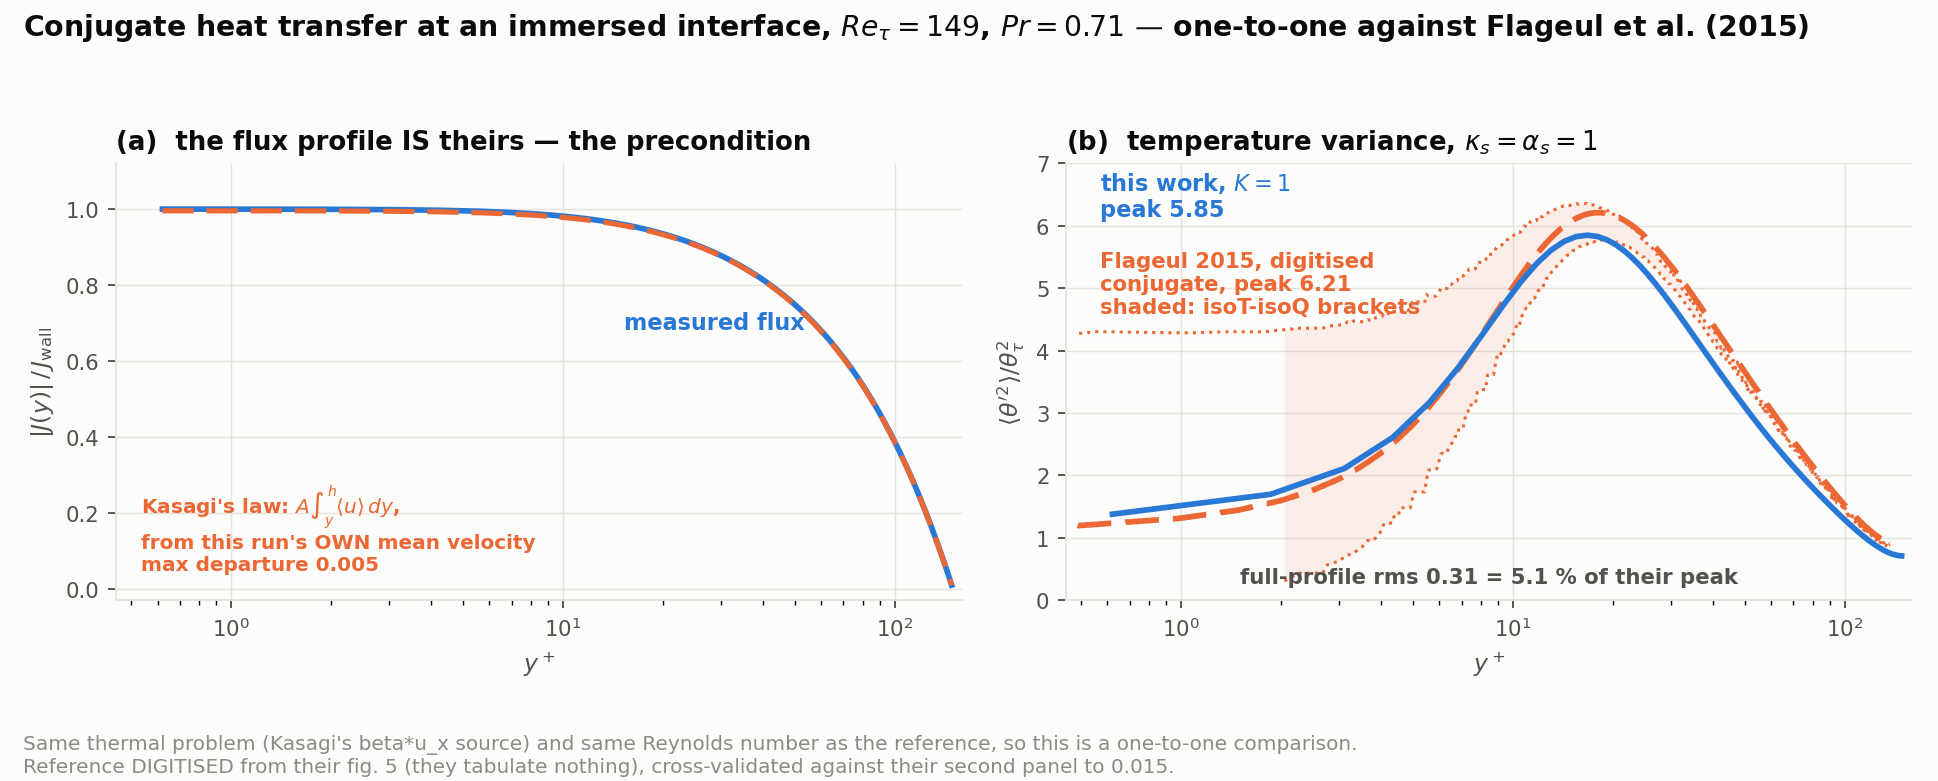
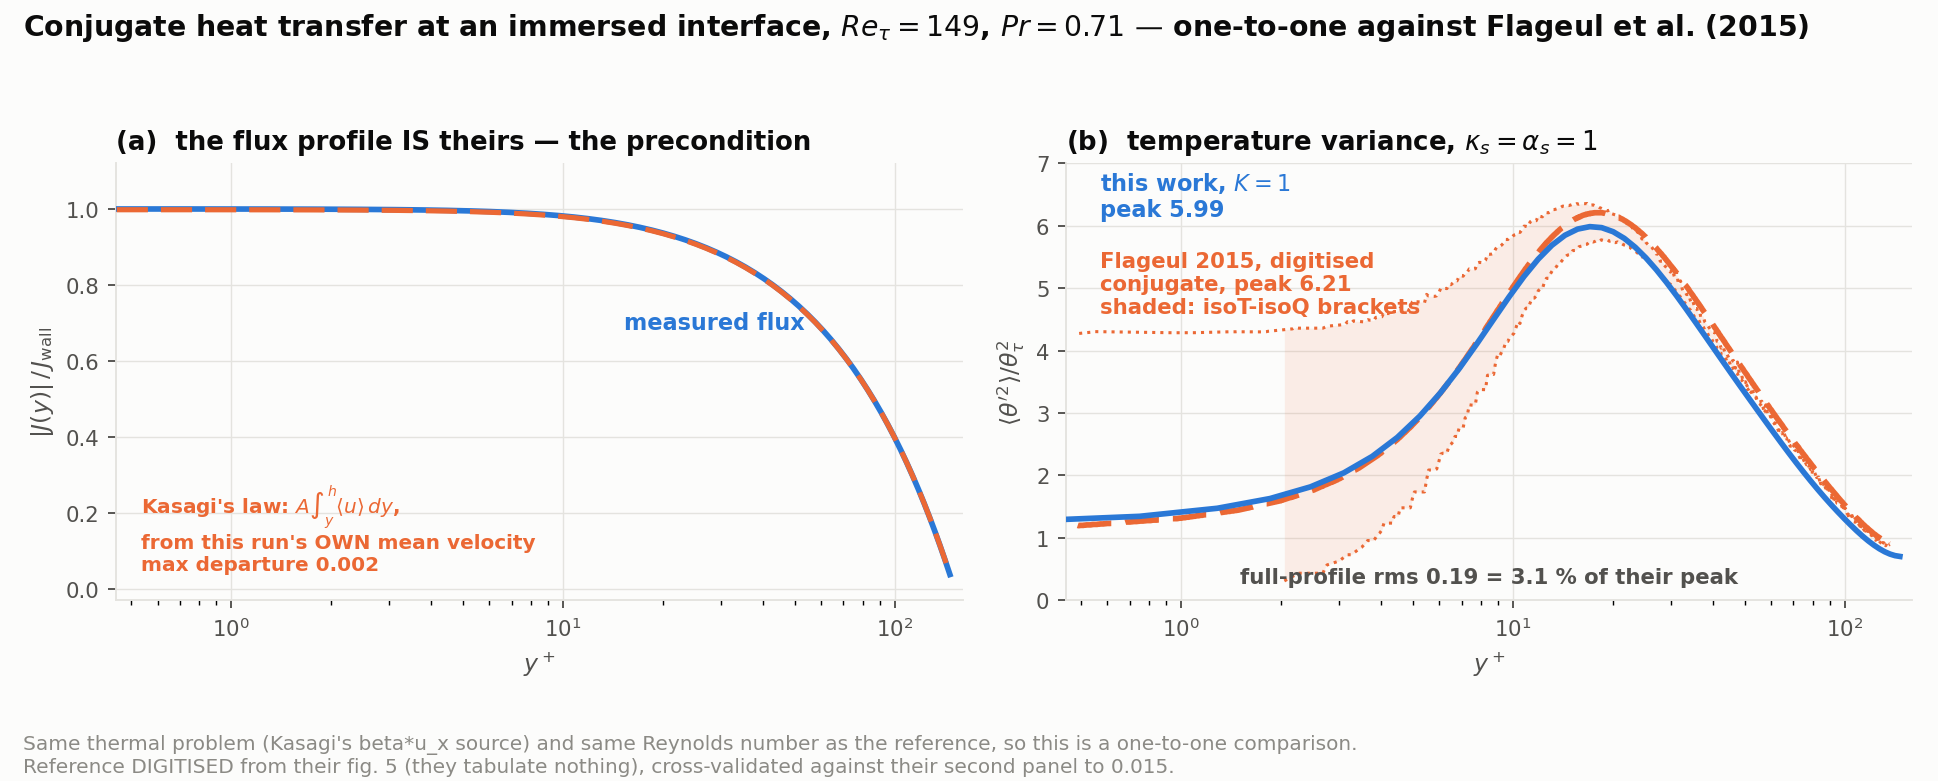
Conjugate CHT: the Flageul-matched campaign lands at 3.2 %
311 000 statistics steps (48.6 h, t = 24.5 -> 119.9, the same window campaign 4
used). Matching their grid resolution, solid thickness and outer-wall BC takes
the full-profile agreement against their digitised conjugate curve from 5.1 %
to 3.2 % of their peak (rms 0.31 -> 0.197), and the k1 near-wall peak from
-6 % to -4 %. theta_tau is kappa_s-independent to 0.25 % and J(centreline) is
-0.00036.

    constant flux, Re 180   rms 2.02  (32.5 %)   peak +14 %
    bulk heating,  Re 180   rms 0.83  (13.4 %)   peak -21 %
    Kasagi,        Re 149   rms 0.31  ( 5.1 %)   peak  -6 %
    Flageul-matched         rms 0.197 ( 3.2 %)   peak  -4 %

TWO QUALITATIVE ARTEFACTS OF THE COARSER GRIDS ARE GONE. K = 0.1 used to rise
monotonically to the centreline and had to be excluded from the peak statistics
by name; now all 6 scalars peak at y+ 16-19 and the peak is the global maximum
for 6/6. And its wall value now sits BELOW the ideal-isoQ limit where campaign
4 put it 3 % ABOVE -- a finite-effusivity wall cannot exceed the K -> 0
plateau, so the earlier +3 % was an under-resolved-wall-cell artefact.

FIXED WHILE PLOTTING: panel (d) had the same clamped-height bug the checker
had, from the same cause -- our grid is now FINER than theirs at the wall, so
our first cell (y+ 0.24) falls below their data (y+ 0.49) and np.interp
silently returns their endpoint. Both sides are now read at the lowest height
both resolve. Panel (b)'s K = 0.1 annotation described the PREVIOUS campaign's
[…]

diff --git a/validation/conjugate/cht/plot_cht.py b/validation/conjugate/cht/plot_cht.py
@@ -205,10 +205,11 @@ def main():
     # sink for large-scale thermal structure (README, campaign 3). Its WALL
     # value is the one that compares, and it matches their isoQ to 3 % -- see
     # panel (d).
-    B.annotate("$K=0.1$ leaves the band in the CORE: a\n"
-               "near-insulating wall gives the core no sink\n"
-               "for large-scale structure. Its WALL value\n"
-               "matches their isoQ to 3 % (panel d).",
+    B.annotate("Every $K$ now peaks NEAR THE WALL and lies inside\n"
+               "the band. On the coarser earlier grids $K=0.1$ did\n"
+               "neither: it rose to the centreline, and its wall value\n"
+               "sat ABOVE the ideal-isoQ limit, which a finite $K$\n"
+               "cannot do. Both artefacts are gone (panel d).",
                xy=(0.97, 0.04), xycoords="axes fraction", ha="right",
                va="bottom", color=MUTED, fontsize=7.8, zorder=8)
     B.set_xlabel("$y^+$", color=INK2, fontsize=10)
@@ -248,19 +249,28 @@ def main():
 
     # ---- (d) the interface response against the effusivity K ---------------
     D = ax[3]
-    yq = float(np.minimum(sweep[0]["y"] - YLO, YHI - sweep[0]["y"])[sweep[0]["i0"]] * RE)
+    # Read BOTH at the lowest y+ both resolve. On this grid our first cell is
+    # at y+ 0.24 and their data starts at 0.49, so taking our first-cell height
+    # would read off the end of their curve and np.interp would silently return
+    # their endpoint -- the height-mismatch error, arriving from the finer side.
+    ypw0 = np.minimum(sweep[0]["y"] - YLO, YHI - sweep[0]["y"]) * RE
+    yq = max(float(ypw0[sweep[0]["i0"]]), float(ref[0, 0]), float(isoq[0, 0]))
+
+    def wall_at(row):
+        o = np.argsort(ypw0[row["m"]])
+        return float(np.interp(yq, ypw0[row["m"]][o], row["var"][row["m"]][o]))
     # The LADDER is the four alpha_s = 1 cases; k2/k3 share K = 10/100 with
     # a2/a3 at a different alpha_s, so they are the EFFUSIVITY-COLLAPSE
     # partners and are drawn as separate markers, not joined into the line --
     # a connected line through a same-K pair would read as a vertical jump.
-    lad = [(np.sqrt(k*c), sweep[i]["wall"]) for nm, i, K in show
+    lad = [(np.sqrt(k*c), wall_at(sweep[i])) for nm, i, K in show
            for _, k, c in [SWEEP[i]]]
     lad.sort()
     D.loglog([x for x, _ in lad], [y for _, y in lad], "-o", color=RAMP[2],
              lw=2.0, ms=8, zorder=4)
     for nm, i in (("k2", 1), ("k3", 2)):
         _, k, c = SWEEP[i]
-        D.loglog([np.sqrt(k*c)], [sweep[i]["wall"]], "o", color=RAMP[2],
+        D.loglog([np.sqrt(k*c)], [wall_at(sweep[i])], "o", color=RAMP[2],
                  mfc=SURFACE, mew=2.0, ms=8, zorder=5)
     D.annotate("hollow: same $K$, different $\\alpha_s$\n"
                "(the effusivity-collapse spread)", xy=(0.97, 0.05),
@@ -278,7 +288,7 @@ def main():
     D.annotate(f"their CONJUGATE case\n$K=1$:  {fc:.2f}", xy=(1.0, fc),
                xytext=(12, -4), textcoords="offset points", ha="left",
                color=ACCENT, fontsize=8.5)
-    ours1 = float(sweep[0]["wall"])
+    ours1 = wall_at(sweep[0])
     D.annotate(f"ours {ours1:.2f}  ({100*(ours1/fc-1):+.0f} %)", xy=(1.0, ours1),
                xytext=(-10, 10), textcoords="offset points", ha="right",
                color=RAMP[3], fontsize=8.5, fontweight="bold")

diff --git a/validation/conjugate/cht/README.md b/validation/conjugate/cht/README.md
@@ -665,7 +665,7 @@ kappa_s-independent theta_tau still do.
 
 ---
 
-# Campaign 5 — FLAGEUL-MATCHED (`cht149_flageul.ini`)  [RUNNING]
+# Campaign 5 — FLAGEUL-MATCHED (`cht149_flageul.ini`)  [DONE]
 
 Campaign 4 left one identified obstacle: wall-normal resolution. This campaign
 removes it, and the two remaining non-resolution differences with it.
@@ -743,3 +743,65 @@ and `--snapshots`, so the earlier campaigns are still reproducible:
    `|| exit 1` guard fired on that and the chained statistics leg never
    started — 12.5 h of correct work sat idle. `run_flageul.sh` now tests for
    `main loop ended` IN THE LOG instead.
+
+## Result (2026-09-07)
+
+311 000 statistics steps, 48.6 h at 0.563 s/step, t = 24.5 → 119.9 (the same
+95.5 time units campaign 4 averaged over).
+
+| | ours | Flageul | |
+|---|---|---|---|
+| theta_tau, kappa_s-independent | 1.0008–1.0034 | — | spread **0.25 %** |
+| J(centreline) | −0.00036 | 0 | |
+| **full profile, 0.49 < y⁺ < 137** | | | **rms 0.197 = 3.2 % of their peak** |
+| near-wall peak, K = 1 | 5.99 | 6.208 | **−4 %** |
+| ⟨θ'²⟩ at y⁺ 0.49 | 1.25 | 1.20 | +5 % |
+| isoT bracket, at its peak | 5.69 | 5.78 | −2 % |
+| isoQ bracket at y⁺ 0.45 | 3.58 | 4.28 | −16 % |
+| wall/peak, K = 1 | 0.2096 | 0.1933 | +8 % |
+
+**The four campaigns, full-profile rms against their digitised curve:**
+
+| | rms | % of their peak | k1 peak |
+|---|---|---|---|
+| constant flux, Re_tau 180 | 2.02 | 32.5 % | +14 % |
+| bulk heating, Re_tau 180 | 0.83 | 13.4 % | −21 % |
+| Kasagi, Re_tau 149 | 0.31 | 5.1 % | −6 % |
+| **Flageul-matched** | **0.197** | **3.2 %** | **−4 %** |
+
+## What the resolution match bought, beyond the 5.1 % → 3.2 %
+
+Two QUALITATIVE artefacts of the coarser grids disappeared, and both were
+visible in the earlier figures:
+
+* **Every K now peaks near the wall.** On the coarser grids K = 0.1 rose
+  monotonically to the centreline and had to be excluded from the peak
+  statistics by name. Here all 6 scalars peak at y⁺ 16–19 and the peak is the
+  global maximum for 6/6.
+* **K = 0.1's wall value is now BELOW the ideal-isoQ limit**, where campaign 4
+  put it 3 % ABOVE. A finite-effusivity conjugate wall cannot exceed the
+  K → 0 plateau, so the earlier +3 % was unphysical — an artefact of reading a
+  under-resolved wall cell. The −16 % now reported is the finite-K deficit,
+  which is the right side of the limit; whether −16 % is the RIGHT size is not
+  settled, since K = 0.1 is an approximation to isoQ and not isoQ.
+
+## Two open items
+
+* **The residual is a slightly FLATTER profile**: +5 % at the wall, −4 % at the
+  peak, wall/peak +8 %. It has survived every refinement, so it is no longer
+  attributable to resolution — Δy⁺ is now theirs, Δx⁺ and Δz⁺ are FINER, and
+  the outer BC and solid thickness match. What remains unmatched is the
+  DOMAIN: ours is 1872 × 936 wall units against their 3814 × 1270, i.e. half
+  the streamwise extent. Their own §5 attributes the near-wall conjugate
+  behaviour to very large-scale thermal structures, and reports that the
+  temperature variance is sensitive to the box length — so the domain is the
+  first thing to try, not the grid.
+* **4.8 % of the interface variance survives at our outer solid face**, where
+  their figure 12 has ~1e-3 mid-solid. Same thickness, same BC now. The likely
+  cause is statistical: they averaged 29 000 wall units and say explicitly it
+  was to converge the DEEP SOLID, where the correlation times are longest;
+  ours is 14 200. Not resolved.
+
+`check_cht.py` still exits FAIL on gates (1) and (2): the absolute solid level
+(the charging transient, offset-free form 6.0e-2 against a 5e-2 tolerance) and
+the effusivity collapse (22 %/38 %). Both are documented physics, unchanged.
